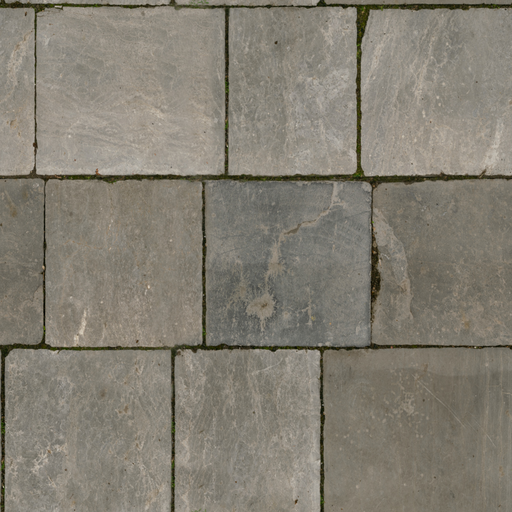
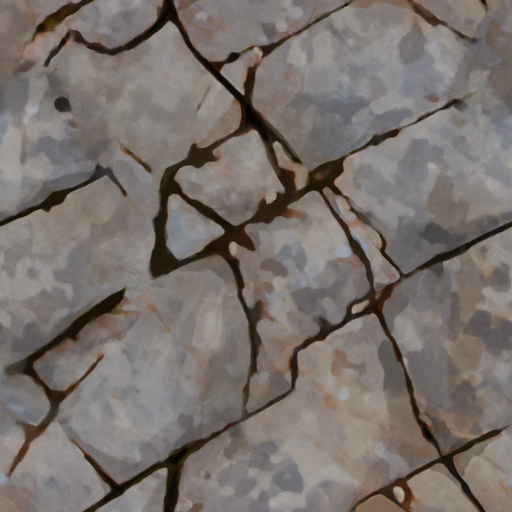
Bản đồ phong cách Stylized Fantasy: đá, tường, nền vẽ tay, phù văn phát sáng
- Nền cỏ, lối đá, sàn đá, tảng đá, tường gạch đổi sang ảnh vẽ tay CC0 của rubberduck
  (OpenGameArt); bỏ 2 ảnh chụp Poly Haven.
- Shader da_ve_tay: ảnh chiếu 3 phía theo tọa độ thế giới, rêu mặt trên, viền sáng ấm.
- Nền giảm độ rực (saturation 0,55) để nhân vật và hiệu ứng nổi.
- Nắng vàng ấm, bóng râm xanh tím.
- Vòng phù văn cộng sáng quay chậm quanh truyền tống trận, linh đài, huyết trận, 2 cổng góc
  (ảnh vẽ bằng code, 5 mesh, không đổ bóng).

Claude-Session: https://claude.ai/code/session_012dLzALLZX6xPMmgYApxuGx

diff --git a/Objects/README.md b/Objects/README.md
@@ -11,7 +11,7 @@ Vật thể tương tác trên bản đồ. Cài đặt `Interactable` và `MapB
 - `maps/test_map.gd`: bản đồ "Động phủ Linh Đài" 50 x 45 m dựng bằng code, xếp theo bố cục bản Meshy quan gửi: phòng truyền tống mái đỏ bên trái (3 cửa, tường nam thấp), động phủ sàn đá góc đông bắc với linh đài, 5 cột cao, 2 cửa phong ấn cam là 2 lối ra, huyết trận ở giữa, 6 trận linh 3D quanh sân, 21 đám bụi cỏ cao để nấp đúng chỗ bụi tròn của bản Meshy, 15 tảng đá (một tảng to có cây mọc ở phía bắc), 9 cây cổ thụ, cột đá đổ, nền đá vỡ ở phế tích đông nam, lối đá phiến chéo từ tây nam lên động phủ, lối đất uốn lượn, viền đền đài (vách đá, cột chạm trổ nối lan can tròn, cổng vòng đá ở 2 góc bắc, phía nam thấp), ngoài tường để trống cho nhẹ, nền cỏ loang 2 sắc, 20 linh thạch; ma tu xuất hiện ở phế tích đông nam. Tường cao 2,4 m, cây ~5,5 m: tỉ lệ người / bụi / cây / tường theo kiểu Liên Quân. Phần trang trí gộp mỗi material một mesh trong mỗi ô 15 x 12 m
 - `models/kaykit_dungeon/`, `models/kaykit_hex/`: tường (đã giảm lưới), cột, nhà mái đỏ từ bộ KayKit Dungeon Remastered và Medieval Hexagon của Kay Lousberg (CC0, giấy phép trong `LICENSE.txt` mỗi thư mục)
 - `models/quaternius_nature/`: cây, thông, bụi lá, cỏ, hoa, đá, sỏi từ Quaternius Stylized Nature MegaKit (CC0, `LICENSE.txt`), đổi sang OBJ mỗi phần một file (`_vo` thân, `_la` lá, `_hoa`, `_da`, `_soi`, `_co`), thân cây và đá to đã giảm lưới, ảnh thu về 256 - 512 px
-- `models/nen_ve_tay/`: ảnh nền 512 px (mipmap dựng lúc nạp như các ảnh khác), CC0 (`LICENSE.txt`). `co_1`, `co_2`, `da` từ Hand-Painted Watercolor Terrain Textures (Jonas Voland, Voxel Core Lab); `dat` (Forest Ground 04) và `san_da` (Large Grey Tiles) từ Poly Haven
-- `shaders/`: `nen_tranh.gdshader` nền cỏ / lối đất / lối đá / sàn đá: 2 ảnh lát theo tọa độ thế giới trộn theo nhiễu cho không lộ ô lặp, `co.gdshader` cỏ gốc đậm ngọn sáng, `tran_linh_fx.gdshader` hiệu ứng trận linh
+- `models/nen_ve_tay/`: ảnh vẽ tay 512 px CC0 (`LICENSE.txt`): cỏ, đá, gạch của rubberduck (OpenGameArt), đất màu nước của Jonas Voland; `phu_van.png` vòng phù văn vẽ bằng code. Mipmap dựng lúc nạp như các ảnh khác
+- `shaders/`: `nen_tranh.gdshader` nền cỏ / lối đất / lối đá / sàn đá: 2 ảnh lát theo tọa độ thế giới trộn theo nhiễu cho không lộ ô lặp, giảm độ rực để nhân vật nổi; `da_ve_tay.gdshader` đá, vách, tường: ảnh vẽ tay chiếu 3 phía, rêu mặt trên, viền sáng ấm; `phu_van.gdshader` vòng phù văn cộng sáng quay chậm; `co.gdshader` cỏ gốc đậm ngọn sáng, `tran_linh_fx.gdshader` hiệu ứng trận linh
 
 Tiếp theo: bản đồ dựng trong editor có nhà cửa / đồ vật chibi, bản đồ thứ hai, model cổng và tiền đẹp hơn.
